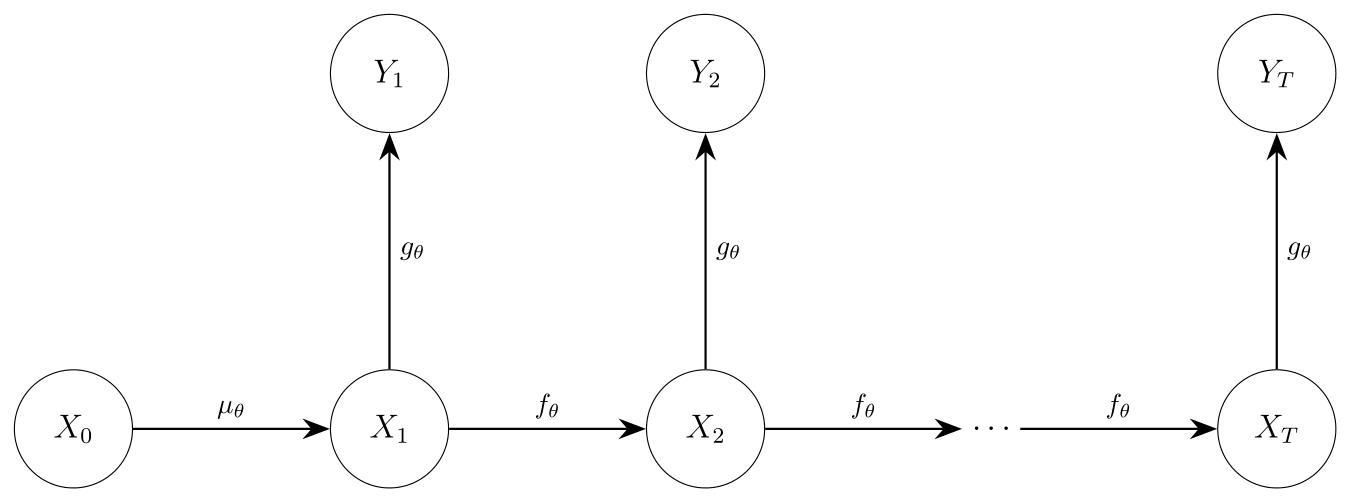
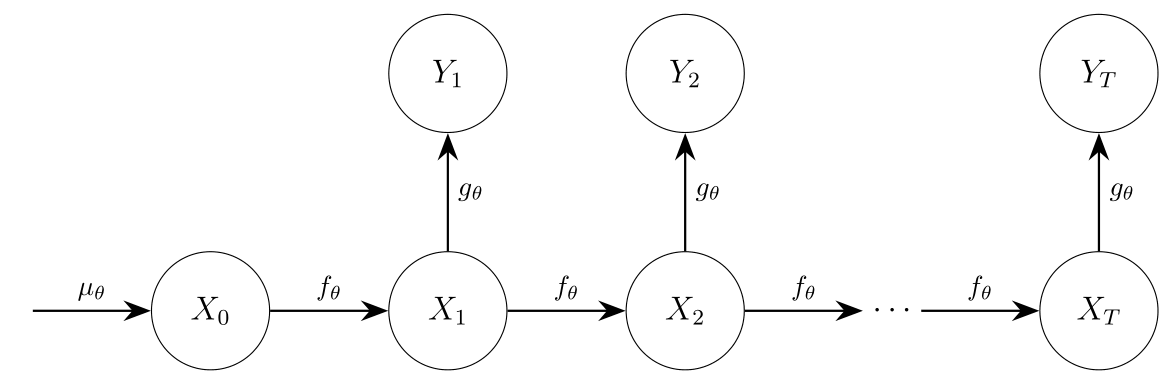
Update readme figure

diff --git a/README.md b/README.md
@@ -158,7 +158,7 @@ result <- pmmh(
 )
 #> Running chain 1...
 #> Running pilot chain for tuning...
-#> Using 58 particles for PMMH:
+#> Using 50 particles for PMMH:
 #> Running Particle MCMC chain with tuned settings...
 #> Running chain 2...
 #> Running pilot chain for tuning...
@@ -166,9 +166,9 @@ result <- pmmh(
 #> Running Particle MCMC chain with tuned settings...
 #> PMMH Results Summary:
 #>  Parameter Mean   SD Median CI Lower.2.5% CI Upper.97.5% ESS  Rhat
-#>        phi 0.69 0.15   0.65          0.37           0.98   2 1.255
-#>    sigma_x 1.30 0.27   1.35          0.79           1.84  31 1.116
-#>    sigma_y 0.49 0.30   0.51          0.08           1.10  11 1.204
+#>        phi 0.63 0.17   0.66          0.23           0.92  47 1.043
+#>    sigma_x 0.64 0.47   0.58          0.03           1.64  56 1.005
+#>    sigma_y 1.25 0.29   1.26          0.57           1.74  41 1.003
 #> Warning in pmmh(y = y, m = 500, init_fn = init_fn, transition_fn =
 #> transition_fn, : Some ESS values are below 400, indicating poor mixing.
 #> Consider running the chains for more iterations.
@@ -183,7 +183,8 @@ iterations.
 ## State-space Models
 
 A state-space model (SSM) has the structure given in the following
-directed acyclic graph (DAG):
+diagram, where we omitted potential time-dependency in the transition
+and observation densities for simplicity.
 
 ![](man/figures/DAG_SSM.png)
 
